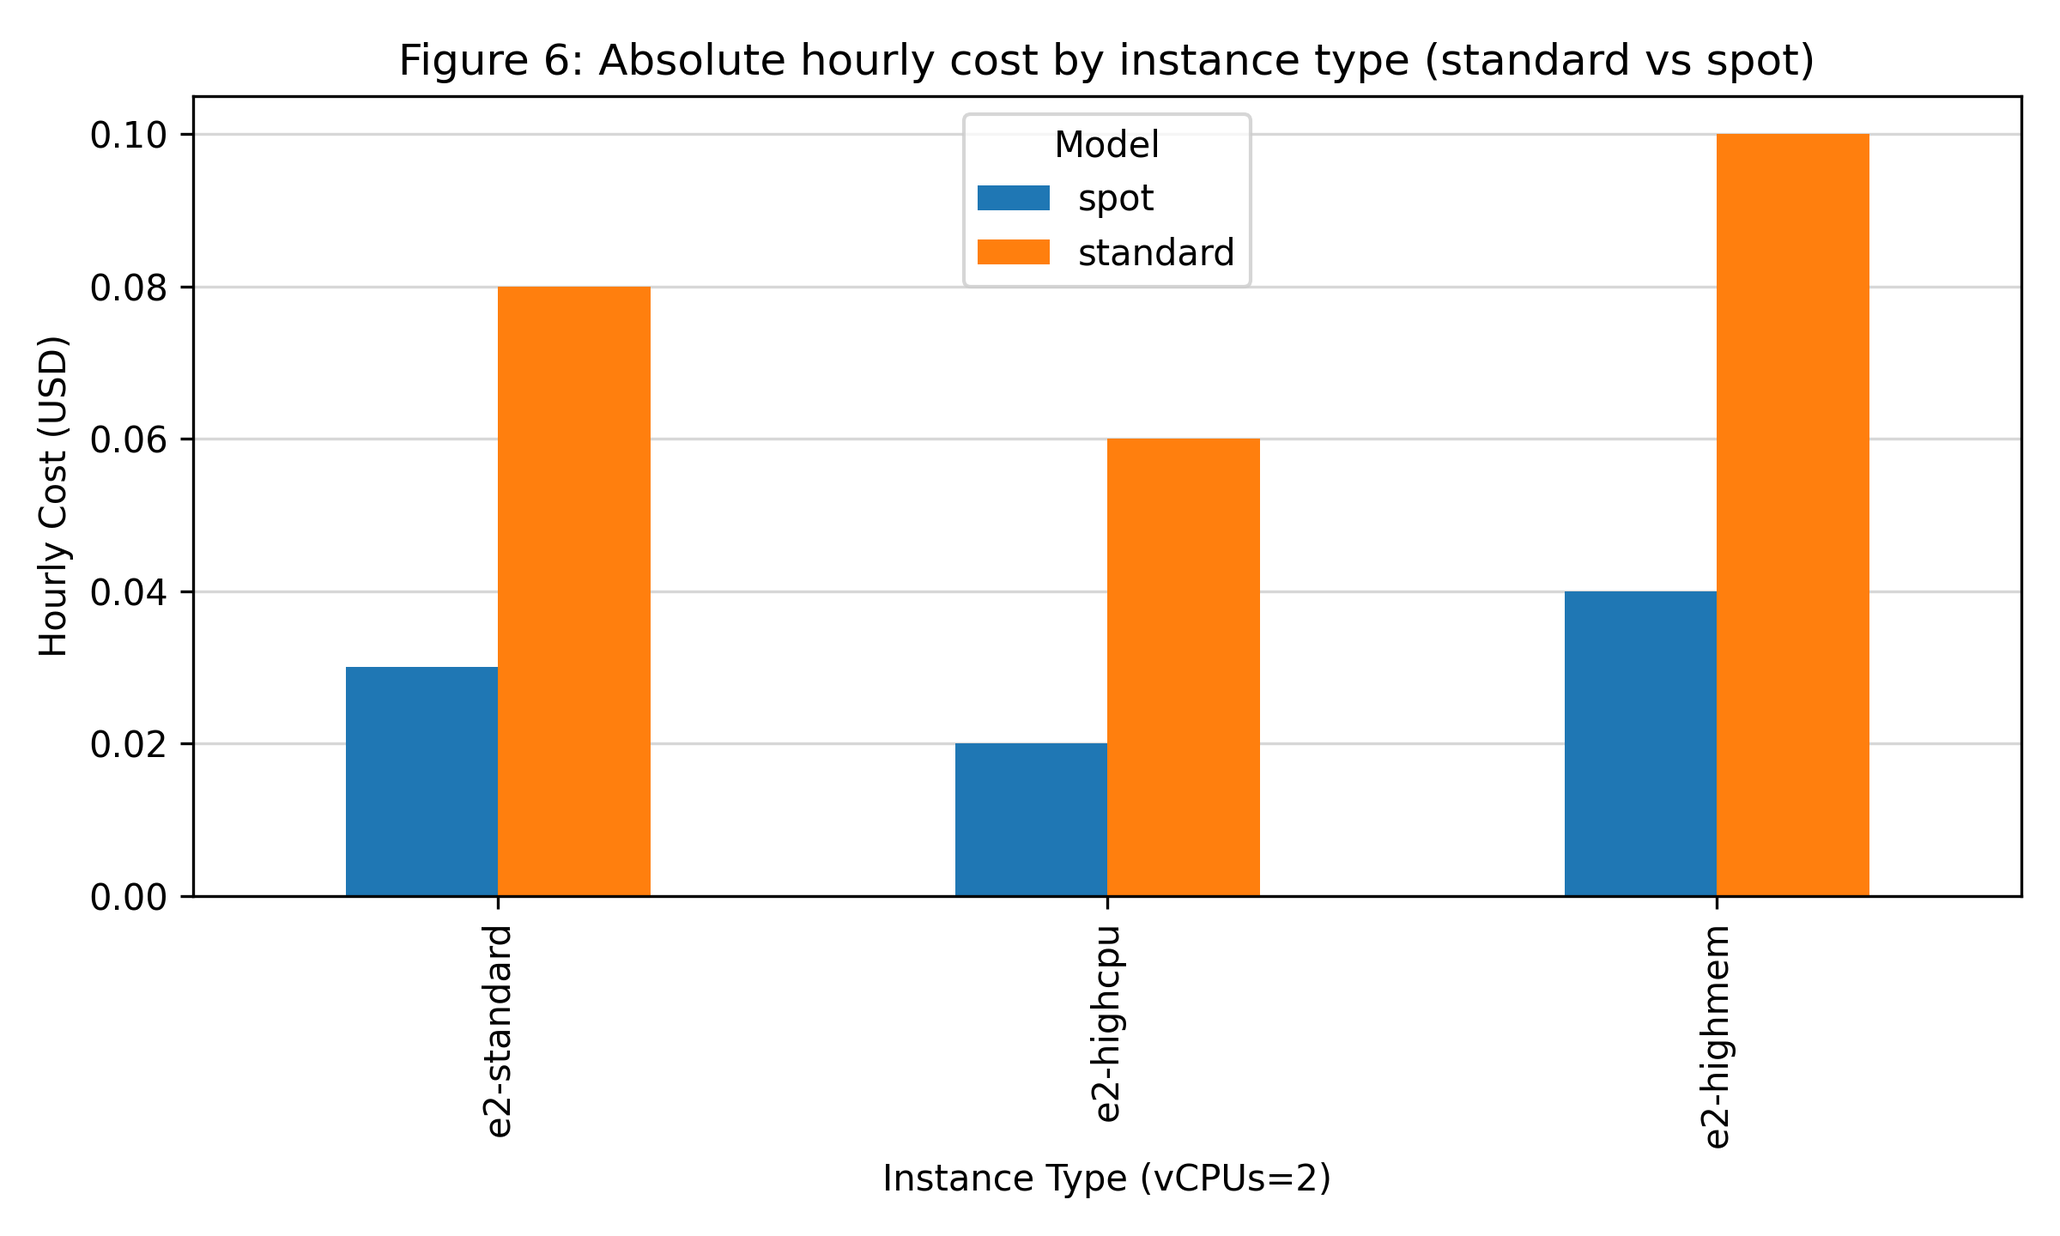
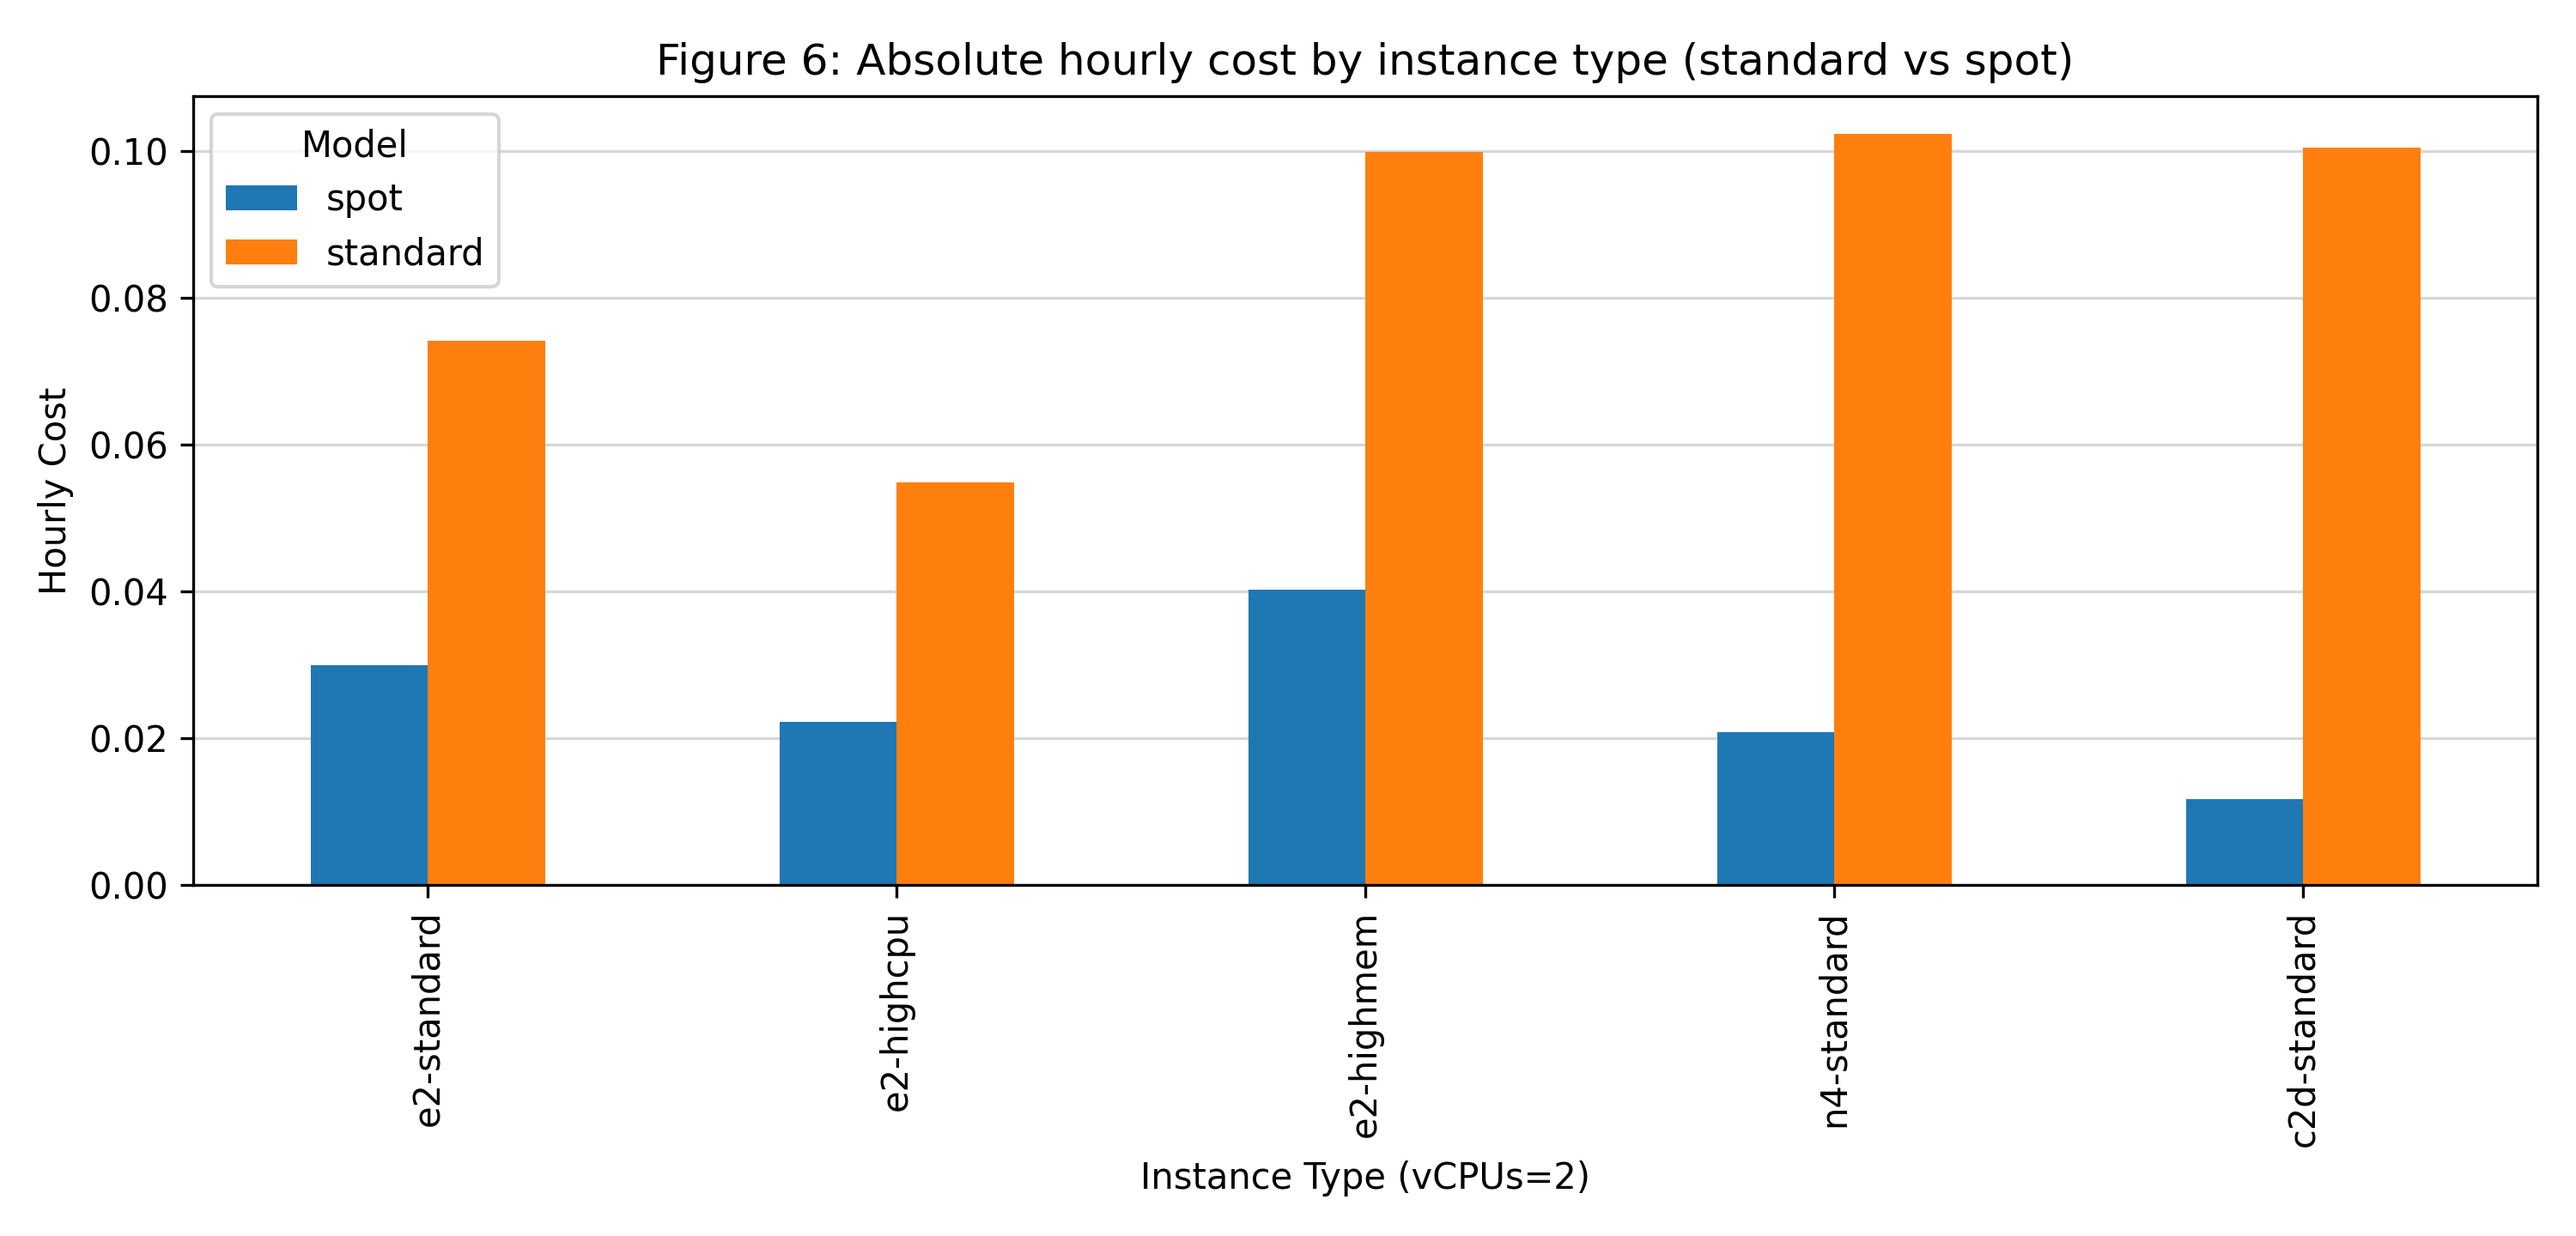
Update hourly cost calculations and improve figure generation in figure6.py

diff --git a/figure6.py b/figure6.py
@@ -1,39 +1,57 @@
 import pandas as pd
 import matplotlib.pyplot as plt
 
+# Your provided hourly costs (monthly / 730.484)
 cost_rows = [
-    ("e2-standard", 2, "standard", 0.08),
-    ("e2-standard", 2, "spot",     0.03),
+    ("e2-standard", 2, "standard", 54.21/730.484),
+    ("e2-standard", 2, "spot",     21.92/730.484),
 
-    ("e2-highcpu",  2, "standard", 0.06),
-    ("e2-highcpu",  2, "spot",     0.02),
+    ("e2-highcpu",  2, "standard", 40.13/730.484),
+    ("e2-highcpu",  2, "spot",     16.29/730.484),
 
-    ("e2-highmem",  2, "standard", 0.10),
-    ("e2-highmem",  2, "spot",     0.04),
+    ("e2-highmem",  2, "standard", 72.99/730.484),
+    ("e2-highmem",  2, "spot",     29.42/730.484),
+
+    ("n4-standard", 2, "standard", 74.80/730.484),
+    ("n4-standard", 2, "spot",     15.25/730.484),
+
+    ("c2d-standard", 2, "standard", 73.38/730.484),
+    ("c2d-standard", 2, "spot",      8.54/730.484),
 ]
 
-cost_df = pd.DataFrame(cost_rows, columns=["Machine Type", "vCPUs", "Model", "hourly_cost_usd"])
+# Build a DataFrame
+cost_df = pd.DataFrame(cost_rows, columns=["Machine Type", "vCPUs", "Model", "hourly_cost"])
 
-# Fixed comparison at vCPUs=2
+# Only vCPUs=2 (as your figure is defined)
 cost_df = cost_df[cost_df["vCPUs"] == 2].copy()
 
-# Ensure numeric
-cost_df["hourly_cost_usd"] = pd.to_numeric(cost_df["hourly_cost_usd"], errors="coerce")
-cost_df = cost_df.dropna(subset=["hourly_cost_usd"])
+# Order of families on x-axis
+order = ["e2-standard", "e2-highcpu", "e2-highmem", "n4-standard", "c2d-standard"]
+present = [t for t in order if t in cost_df["Machine Type"].unique()]
+if not present:
+    present = sorted(cost_df["Machine Type"].unique())
 
-# Pivot for grouped bars (standard vs spot for each instance type)
-pivot = cost_df.pivot(index="Machine Type", columns="Model", values="hourly_cost_usd")
-pivot = pivot.reindex(["e2-standard", "e2-highcpu", "e2-highmem"])
+# Pivot for plotting (rows = machine type, columns = model)
+pivot = (
+    cost_df.pivot_table(index="Machine Type", columns="Model", values="hourly_cost", aggfunc="first")
+          .reindex(present)
+)
 
-plt.figure(figsize=(8, 4.8))
+# Ensure numeric dtype (prevents "no numeric data to plot")
+pivot = pivot.apply(pd.to_numeric, errors="coerce")
+
+plt.figure(figsize=(10, 4.8))
 pivot.plot(kind="bar", ax=plt.gca())
 
 plt.xlabel("Instance Type (vCPUs=2)")
-plt.ylabel("Hourly Cost (USD)")
+plt.ylabel("Hourly Cost")
 plt.title("Figure 6: Absolute hourly cost by instance type (standard vs spot)")
+plt.legend(title="Model")
 
-plt.gca().set_axisbelow(True)
-plt.grid(axis="y", alpha=0.5)
+ax = plt.gca()
+ax.set_axisbelow(True)
+ax.grid(axis="y", alpha=0.5)
+
 plt.tight_layout()
 plt.savefig("fig6.png", dpi=300)
 plt.show()
